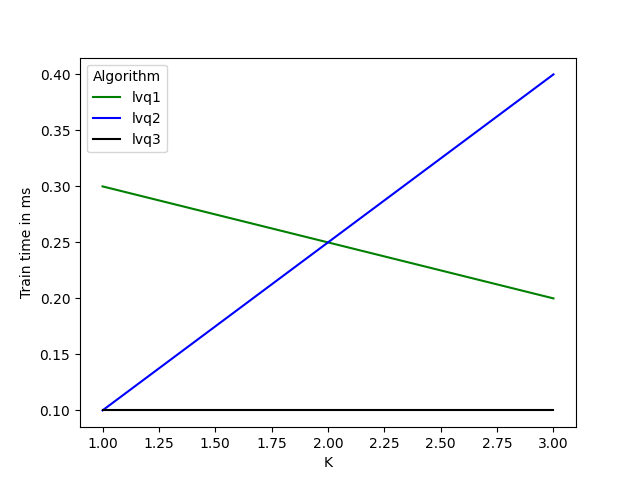
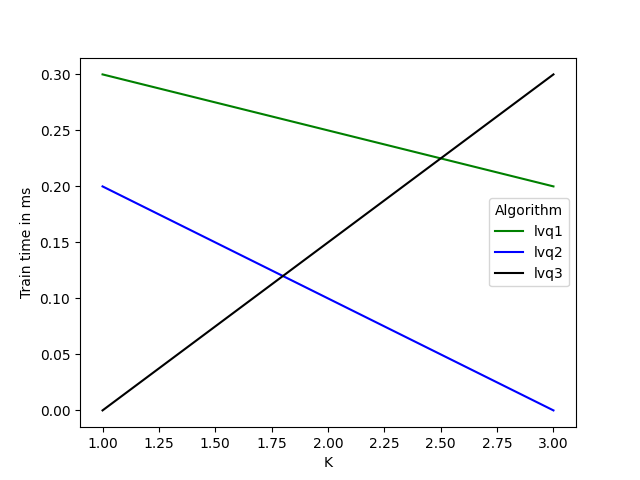
lvq2 implemented

diff --git a/Lista2/lvq2.py b/Lista2/lvq2.py
@@ -1,7 +1,8 @@
+import numpy as np
 from sklearn.neighbors import KNeighborsClassifier
 from prototype_gen import random_prototypes
 
-weight = 0.01
+weight = 0.25
 num_of_prototypes = 100
 
 def update_prototype(prototype, real_instance, is_same_class):
@@ -17,21 +18,32 @@ def update_prototype(prototype, real_instance, is_same_class):
 def gen_prototypes(x_train, y_train):
     prototypes_x, prototypes_y = random_prototypes(x_train, y_train, 50)
 
-    classifier = KNeighborsClassifier(n_neighbors=1, weights='uniform')
-    classifier.fit(x_train, y_train)
+    classifier = KNeighborsClassifier(n_neighbors=2, weights='uniform')
+    classifier.fit(prototypes_x, prototypes_y)
 
     for _ in range(100):
-        predicted_classes = classifier.predict(prototypes_x)
-        real_instances = classifier.kneighbors(X=prototypes_x, n_neighbors=1, return_distance=False)
-        for i in range(len(prototypes_x)):
-            prototype = prototypes_x[i]
-            prototype_class = prototypes_y[i]
+        x_neighbors = classifier.kneighbors(X=x_train, n_neighbors=2, return_distance=False)
+        for i in range(len(x_train)):
+            x_instance = x_train[i]
+            x_class = y_train[i]
 
-            predicted_class = predicted_classes[i]
-            real_instance_index = real_instances[i]
-            real_instance = x_train[real_instance_index][0]
+            pi_index = x_neighbors[i][0]
+            pi = prototypes_x[pi_index]
+            pi_class = prototypes_y[pi_index]
+            pi_dist = np.linalg.norm(pi - x_instance)
 
-            is_same_class = prototype_class == predicted_class
-            update_prototype(prototype, real_instance, is_same_class)
+            pj_index = x_neighbors[i][1]
+            pj = prototypes_x[pj_index]
+            pj_class = prototypes_y[pj_index]
+            pj_dist = np.linalg.norm(pj - x_instance)
+
+            distpipj = pi_dist / (pj_dist + 0.0000001)
+            distpjpi = pj_dist / (pi_dist + 0.0000001)
+            dist = min(distpipj, distpjpi)
+            is_inside_window = dist > ((1 - weight) / (1 + weight))
+
+            if is_inside_window and pi_class != pj_class:
+                update_prototype(pi, x_instance, pi_class == x_class)
+                update_prototype(pj, x_instance, pj_class == x_class)            
 
     return prototypes_x, prototypes_y

diff --git a/Lista2/lvq1.py b/Lista2/lvq1.py
@@ -1,7 +1,7 @@
 from sklearn.neighbors import KNeighborsClassifier
 from prototype_gen import random_prototypes
 
-weight = 0.01
+weight = 0.25
 num_of_prototypes = 100
 
 def update_prototype(prototype, real_instance, is_same_class):
